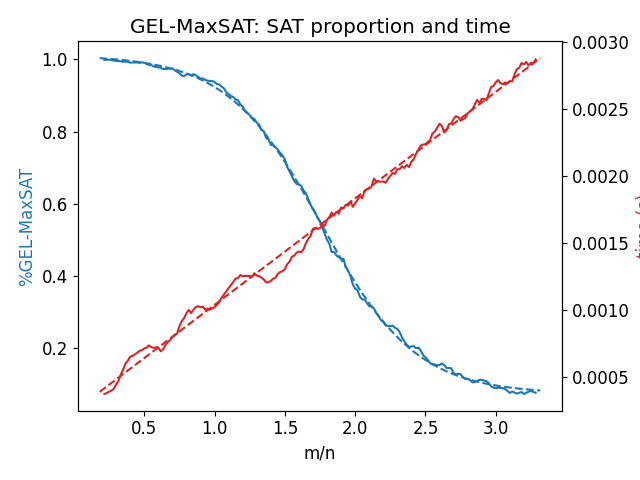
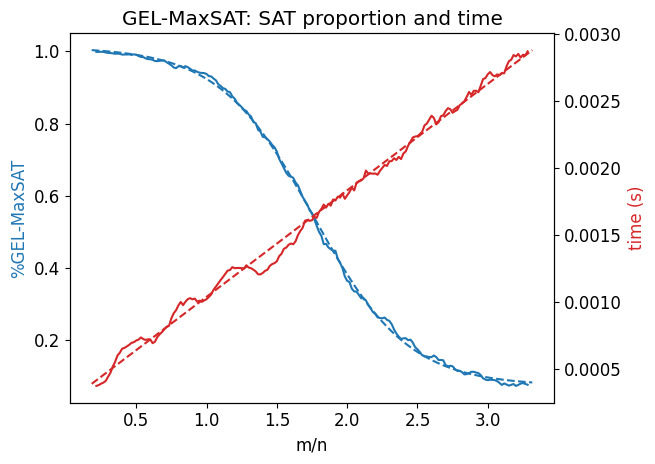
Fix borders from plot

Changed region(s): [[0.0, 0.0, 1.0, 0.9957]]

diff --git a/plot.py b/plot.py
@@ -44,7 +44,7 @@ def main():
         plot_linear_fit(axioms_counts, times_mean, ax2)
 
     filename = extract_filename(experiment_path)
-    plt.savefig(f'data/plots/{filename}.png')
+    plt.savefig(f'data/plots/{filename}.png', bbox_inches='tight')
 
     if args.show:
         plt.show()
